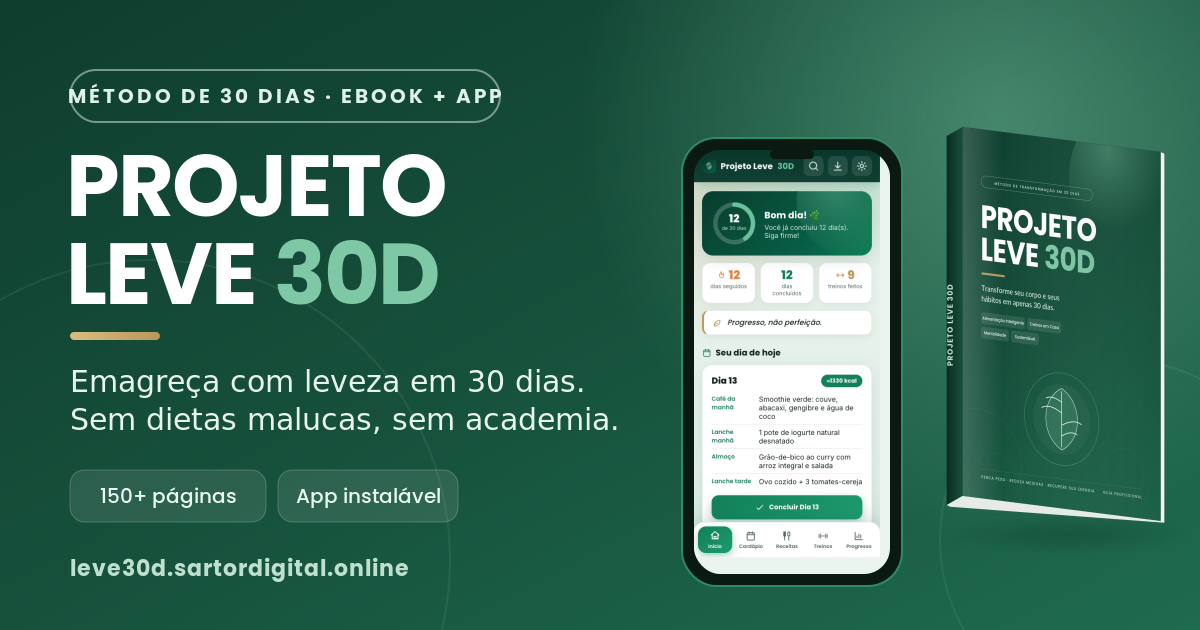
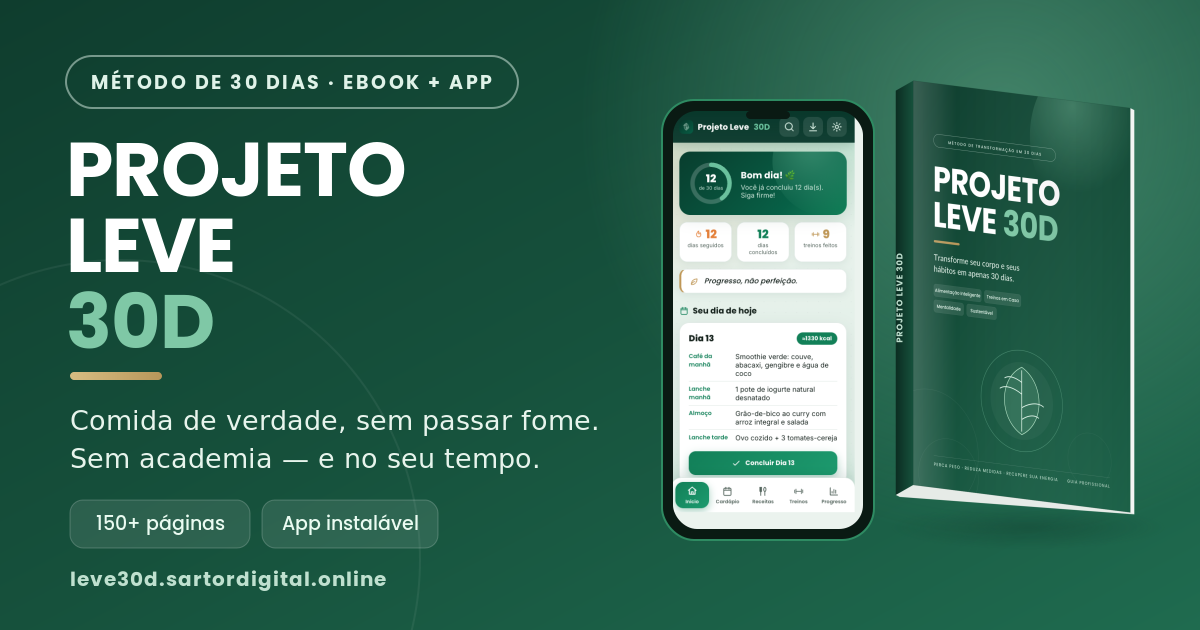
feat: OG image padronizada + copy da pagina mais agressiva/clara

Changed region(s): [[0.0308, 0.0603, 0.9867, 0.9349]]

diff --git a/ebooks/leve30d/index.html b/ebooks/leve30d/index.html
@@ -13,8 +13,8 @@
 <meta property="og:title" content="Projeto Leve 30D — Ebook + App para transformar seu corpo em 30 dias">
 <meta property="og:description" content="Método simples e sustentável para emagrecer sem dietas extremas. Ebook completo + App instalável no celular: plano de 30 dias, 180+ receitas, treinos e progresso na palma da mão.">
 <meta property="og:url" content="https://leve30d.sartordigital.online/">
-<meta property="og:image" content="https://leve30d.sartordigital.online/assets/og-image.png?v=2">
-<meta property="og:image:secure_url" content="https://leve30d.sartordigital.online/assets/og-image.png?v=2">
+<meta property="og:image" content="https://leve30d.sartordigital.online/assets/og-image.png?v=3">
+<meta property="og:image:secure_url" content="https://leve30d.sartordigital.online/assets/og-image.png?v=3">
 <meta property="og:image:type" content="image/png">
 <meta property="og:image:width" content="1200">
 <meta property="og:image:height" content="630">
@@ -24,7 +24,7 @@
 <meta name="twitter:card" content="summary_large_image">
 <meta name="twitter:title" content="Projeto Leve 30D — Ebook + App">
 <meta name="twitter:description" content="Emagreça com leveza em 30 dias. Ebook completo + App instalável no celular: cardápio, receitas, treinos e progresso.">
-<meta name="twitter:image" content="https://leve30d.sartordigital.online/assets/og-image.png?v=2">
+<meta name="twitter:image" content="https://leve30d.sartordigital.online/assets/og-image.png?v=3">
 
 <link rel="icon" href="https://i.postimg.cc/25tgbP7P/LOGO-ICO.png" type="image/png">
 <link rel="preconnect" href="https://fonts.googleapis.com">